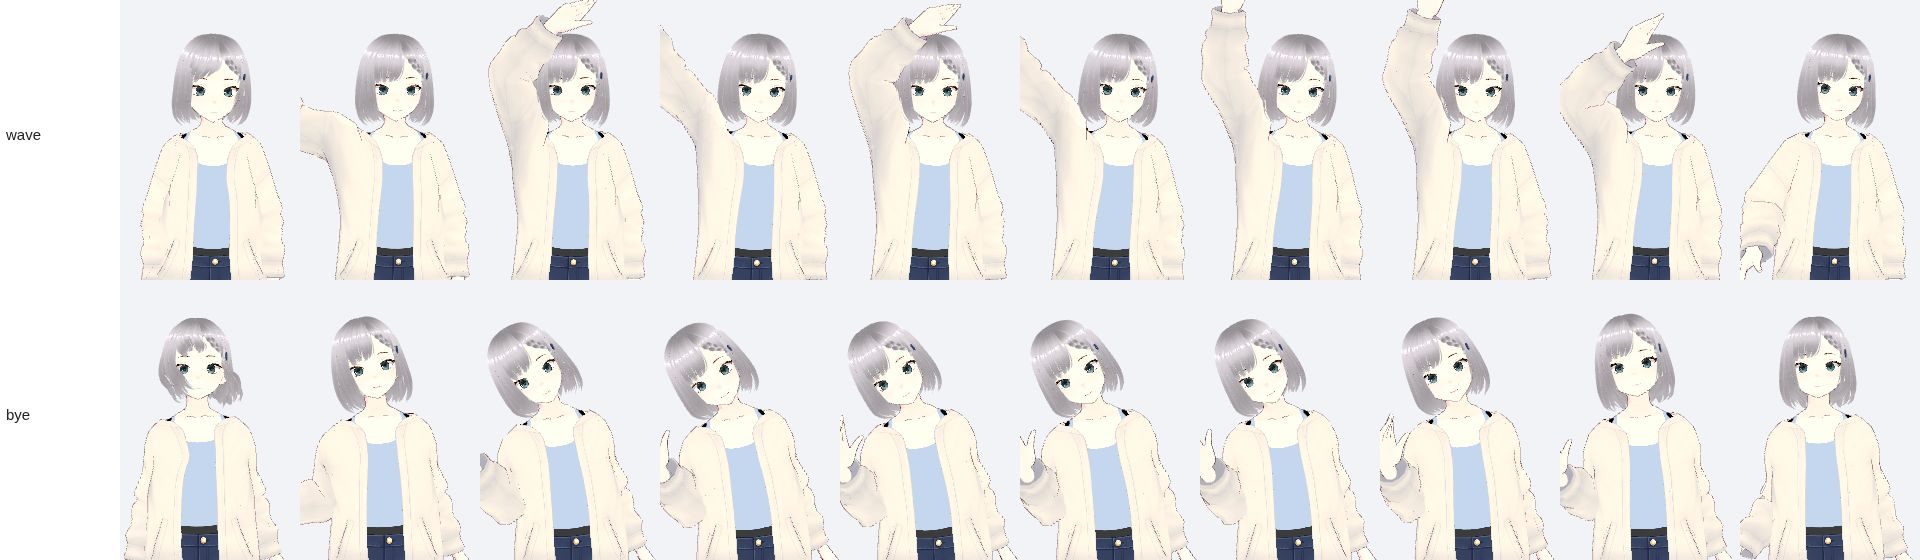
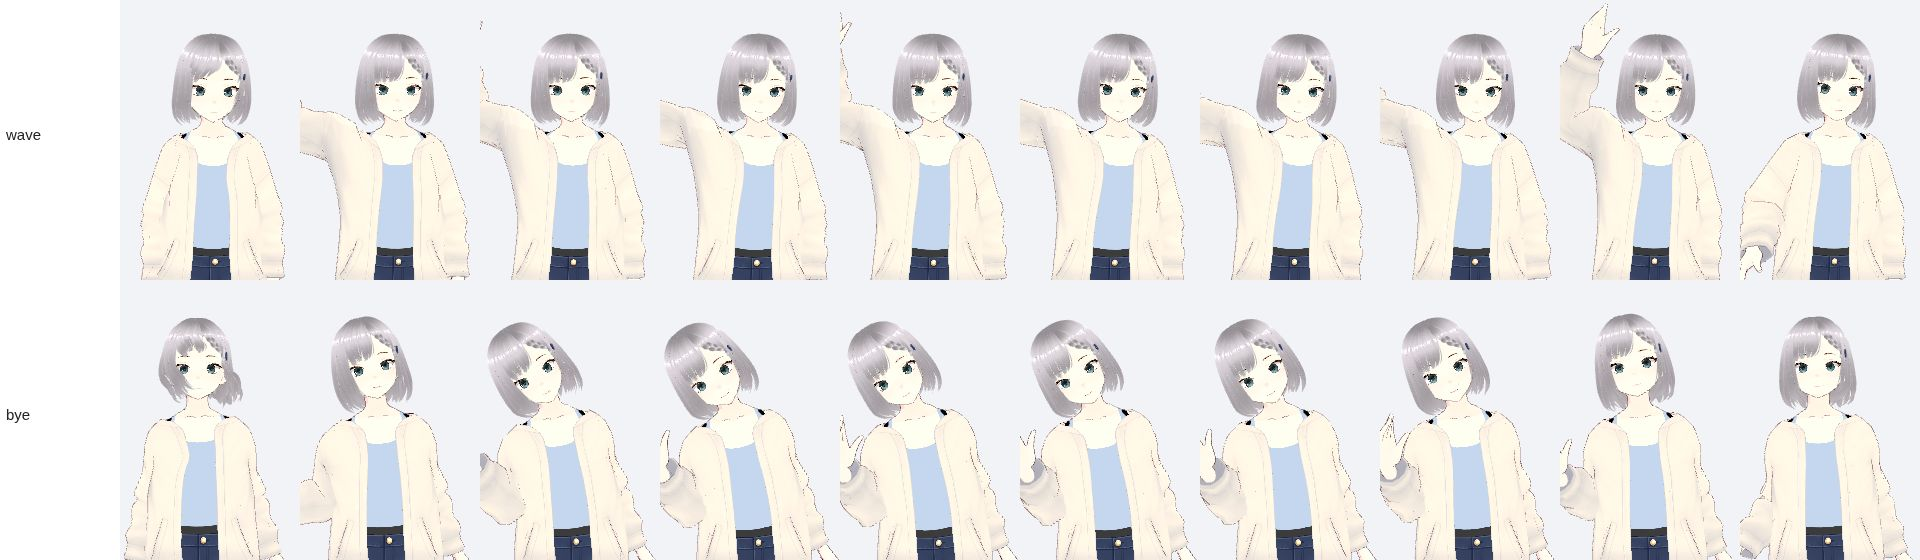
fix(body): she waves beside her face instead of folding her arm over her head
The captured wave raised the upper arm to about 146 degrees, so the forearm crossed over the top
of her head. The arm is now brought down above 100 degrees (peak about 109), the hand waves beside
her face, and the wave joins the other clips under the jacket-tear overhead check. V04 records the
owner's hand-off of this and the hair-clip VRM decision.

diff --git a/scripts/build_vrm_mocap.py b/scripts/build_vrm_mocap.py
@@ -722,7 +722,11 @@ MOCAP = {
     "idle": ("Mixamo idle, mirrored and joined into a 5 s weight-shifting loop.", True),
     "nod": ("Mixamo agree: a few natural nods; returns to the stand pose.", False),
     "shake": ("Mixamo head shake (no); returns to the stand pose.", False),
-    "wave": ("Captured right-hand wave, trimmed to two sweeps; returns to the stand pose.", False),
+    "wave": (
+        "Captured right-hand wave, trimmed to two sweeps, the upper arm lowered so the hand"
+        " waves beside her face; returns to the stand pose.",
+        False,
+    ),
     "bow": ("Captured polite bow with hands together; returns to the stand pose.", False),
     "bye": ("Captured small hand-by-the-face hello/bye; returns to the stand pose.", False),
     "think": (
@@ -839,7 +843,7 @@ def build_clips(
         "nod": mixamo("agree"),
         "shake": mixamo("headShake"),
         # raise and one and a half sweeps, then the matching sweep before the arm comes down
-        "wave": join(cut(wave, 0, 65), cut(wave, 136)),
+        "wave": beside_the_face(join(cut(wave, 0, 65), cut(wave, 136)), skeleton),
         "bow": bvh("dataset-1_bow_normal_001"),
         "bye": bvh("dataset-1_bye_normal_001"),
     }
@@ -875,6 +879,28 @@ def build_clips(
     out["walk_stop"] = walk_stop(idle, walk, skeleton, speed)
     out["turn_step"] = turn_step(idle, walk)
     return out
+
+
+# The captured wave lifts the upper arm to ~146 degrees, so the forearm folds over the top of her
+# head. Above WAVE_CAP the upper arm is brought down (and out) by WAVE_GAIN times the excess, which
+# keeps the waving hand beside her face.
+WAVE_CAP, WAVE_GAIN = 100.0, 1.2
+
+
+def arm_lift(clip: Clip, skeleton: dict[str, Any], side: str) -> np.ndarray:
+    """Degrees between each frame's upper arm and the torso's downward direction."""
+
+    down = world_positions(clip, skeleton, "hips") - world_positions(clip, skeleton, "upperChest")
+    down /= np.linalg.norm(down, axis=1, keepdims=True)
+    arm = world_positions(clip, skeleton, f"{side}LowerArm")
+    arm = arm - world_positions(clip, skeleton, f"{side}UpperArm")
+    arm /= np.linalg.norm(arm, axis=1, keepdims=True)
+    return np.degrees(np.arccos(np.clip((arm * down).sum(1), -1, 1)))
+
+
+def beside_the_face(clip: Clip, skeleton: dict[str, Any]) -> Clip:
+    excess = np.clip(arm_lift(clip, skeleton, "right") - WAVE_CAP, 0, None)
+    return wobble(clip, "rightUpperArm", "z", excess * WAVE_GAIN)
 
 
 # The captured idle's sway in the seated upper body: full in the head, light in the back, whose

diff --git a/tests/integration/test_vrm_motions.py b/tests/integration/test_vrm_motions.py
@@ -221,7 +221,7 @@ def test_mood_idles_hold_their_own_pose_over_the_captured_idle() -> None:
 
 # Raised overhead, the jacket's sleeves and shoulders stretch apart (VRoid skinning, no cloth
 # physics): authored clips keep the upper arms below that. The captured wave is the exception.
-OVERHEAD_EXEMPT = {"wave"}
+OVERHEAD_EXEMPT: set[str] = set()
 
 
 def test_upper_arms_stay_below_overhead_where_the_jacket_tears() -> None:

diff --git a/design/companion/CP-V04/README.md b/design/companion/CP-V04/README.md
@@ -28,7 +28,7 @@
 | 坐、起 | 完成 | `sit_down`→`sit_loop`（坐地抱膝）→`stand_up`；`test_sitting_rests_on_the_floor_with_planted_feet_and_exact_handovers` |
 | 注意、揮手 | 完成 | `attention`、`wave`、`bye`、`bow` |
 | 筆記本拿出／閱讀／收起 | 完成 | `notebook_out`→`notebook_read`→`notebook_away`；筆記本道具由 renderer 畫（不在片段裡） |
-| 關節、衣物不破圖 | 目視 PASS（軟體 GPU） | 37 個片段 × 6 格 × 正面與 3/4，共 444 格在縮圖解析度下逐一看過，沒有看到關節反折、穿模或外套撕裂。抬手過頭會撕外套，除了 `wave` 以外都有測試擋住（`test_upper_arms_stay_below_overhead_where_the_jacket_tears`） |
+| 關節、衣物不破圖 | 目視 PASS（軟體 GPU） | 37 個片段 × 6 格 × 正面與 3/4，共 444 格在縮圖解析度下逐一看過，沒有看到關節反折、穿模或外套撕裂。抬手過頭會撕外套，所有片段（含 `wave`）都有測試擋住（`test_upper_arms_stay_below_overhead_where_the_jacket_tears`） |
 | 左右身份一致 | PASS | 單一 3D 模型，各角度同一份網格與貼圖；3/4 圖可看出 |
 | 真步態有腳步，不是站姿平移 | PASS | 見步態側面圖；P06 讓視窗以片段記錄的步速移動，著地腳不滑 |
 | 可編輯工程＋runtime 包 | 完成 | 見上方交付表；髮夾的限制見 MODEL.md |
@@ -46,8 +46,10 @@
 
 ## 已知的小地方（不是 blocker）
 
-- `wave` 是動捕原樣的大幅揮手：手會舉過頭頂、前臂越過頭頂上方（見 `evidence/wave-close-front.jpg`）。
-  外套沒有撕裂，但看起來比較像「用力打招呼」。若想要只在臉旁邊揮，可以改疊加層壓低上臂，需要擁有者決定。
+- `wave`（2026-10-21 擁有者交由 Claude 決定）：動捕原樣會把上臂抬到約 146°，前臂越過頭頂。
+  `build_vrm_mocap.py` 的 `beside_the_face` 把超過 100° 的部分以 1.2 倍壓低，上臂最高約 109°，
+  手在臉旁邊揮、不再越過頭頂（見 `evidence/front-1.jpg` 的 wave 列）。手往外伸得比原本遠約 7 cm，
+  窄的桌寵窗格在揮到最外側的一瞬間可能切到指尖。
 - 證據圖是 headless Chromium＋SwiftShader 渲染，只播片段本身（沒有 renderer 的呼吸、視線、情緒層）。
   真機 GPU 的畫面與自然度要擁有者實際看過才算驗收。
 

diff --git a/design/companion/CP-V04/MODEL.md b/design/companion/CP-V04/MODEL.md
@@ -19,6 +19,10 @@
 比對第 2、3 步的 glTF JSON：產生器改為「VRM Add-on for Blender v4.10.2 with Khronos glTF Blender I/O
 v5.2.40」；多了一個 `HairClip` mesh、材質 `HairClip_MAT` 與一張貼圖；表情多了 `lookUp/Down/Left/Right`；
 節點順序與 skin 重新編排。Blender 工程（.blend）沒有保存，所以**只靠 .vroid 無法重現髮夾**。
+擁有者 2026-10-21 交由 Claude 決定，決定是：第 3 步的 VRM（17.5 MB）不放進 repo，只記雜湊。理由：它和
+第 4 步的執行用模型幾乎一樣大，再加一份會讓 repo 多 17.5 MB，而髮夾只是一個小 mesh；檔案仍在擁有者電腦
+`siroClaude/`，用上表的雜湊可以確認拿到的是同一份。
+
 要修改目前模型，可以：
 
 - 改外觀、服裝、髮型：在 VRoid Studio 開 `.vroid` → 匯出 VRM 1.0 → 在 Blender（VRM Add-on）匯入，
